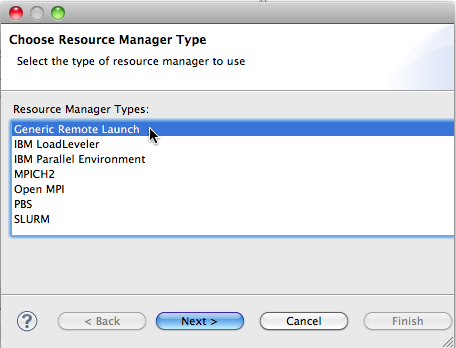
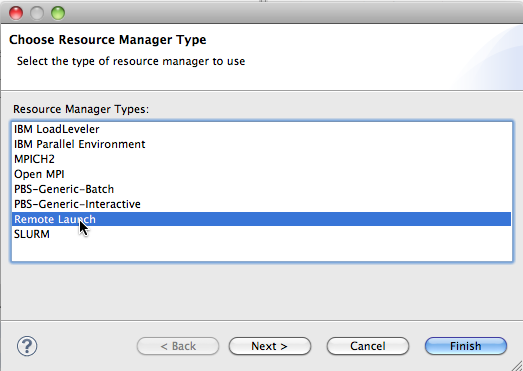
Doc updates.

diff --git a/core/org.eclipse.ptp.doc.user/html/02resMgrRemoteLaunch.html b/core/org.eclipse.ptp.doc.user/html/02resMgrRemoteLaunch.html
@@ -10,41 +10,50 @@
 <p>
 The "Remote Launch" resource manager can be used to run an arbitrary executable on the local or a remote machine. It doesn't matter if the executable
 is parallel program or not, however if you want to run a parallel program it is recommended you use one of the other resource manager types.
-<p>To create a Remote Launch resource manager, open the 
-Parallel Runtime Perspective and right-click in the Resource Managers view.
+<p>To create a Remote Launch resource manager, launch the resource manager wizard by opening the 
+<b>Parallel Runtime</b> perspective and right-clicking in the <b>Resource Managers</b> view.
 <p>
 
 <ol>
 <li>
 <p>Select the Remote Launch type of resource manager and click Next.</p>
+<p><br></p>
 <p><img src="images/02GenericRemLaunch01.png"></p>
 <p><br></p>
 </li>
-<p>In the Connection Configuration Dialog, fill in the connection information including the 
-Remote Service Provider (e.g. Remote Tools) and the Connection name.
-If you have not already <a href="02resMgrSetup.html#remote">configured a connection,</a> 
+<li>
+<p>In the <b>Connection Configuration</b> page, fill in the connection information including the 
+<b>Remote service provider</b> (e.g. Remote Tools) and the <b>Connection name</b>.
+If you have not already <a href="02resMgrSetup.html#remote">configured a connection</a>,
 you can do it here.
-Tunneling Options allow communication to be tunneled over a single connection if 
-supported by the remote service provider. 
-To enable tunneling, select the SSH port forwarding radio button.
+</p>
+<p><br></p>
 <p>
-Click Next, or Finish.
+The <b>Advanced Options</b> can be used to modify port forwarding for ssh connections.
+</p>
+<p><br></p>
 <p><img src="images/02GenericRemLaunch03.png">
-<p>&nbsp;
-<p>If you clicked Next, the next page allows you to change the default name etc. for
-this resource manager.  Then click Finish.
+<p><br></p>
+</li>
+<li>
+Click <b>Next</b>, or <b>Finish</b>. If you clicked <b>Next</b>, the next wizard page allows you to change the default name and startup options for
+this resource manager.
+<p><br></p>
 <p><img src="images/02GenericRemLaunch04.png">
-
-
-<p>Back in the Resource Managers view, you should see the new resource manager.
-Right-click on the new resource manager and choose "Start Resource Manager" to start it.
+<p><br></p>
+<li>
+<p>Back in the <b>Resource Managers</b> view, you should see the new resource manager.
+Right-click on the new resource manager and choose <b>Start Resource Manager</b> to start it.
 Its icon should turn green.
-<p>
-<img src="images/02GenericRemLaunch02.png">
-<p>&nbsp;
-<p>Now, to run a program with the Generic Remote Launch Resource Manager,
-create a simple remote project.  Create a run configuration for a Parallel Application, and select the Generic Remote Launch Resource Manager that you just created.
+<p><br></p>
+<p><img src="images/02GenericRemLaunch02.png"></p>
+<p><br></p>
+</li>
+<li>
+<p>Now, to run a program with the Remote Launch resource manager,
+create a simple remote project.  Create a run configuration for a Parallel Application, and select the Remote Launch resource manager that you just created.
 When you run, your program should run on the remote machine.
+</li>
 <!--  FIXME give more of an example.  e.g. from tutorial. -->
 
 
